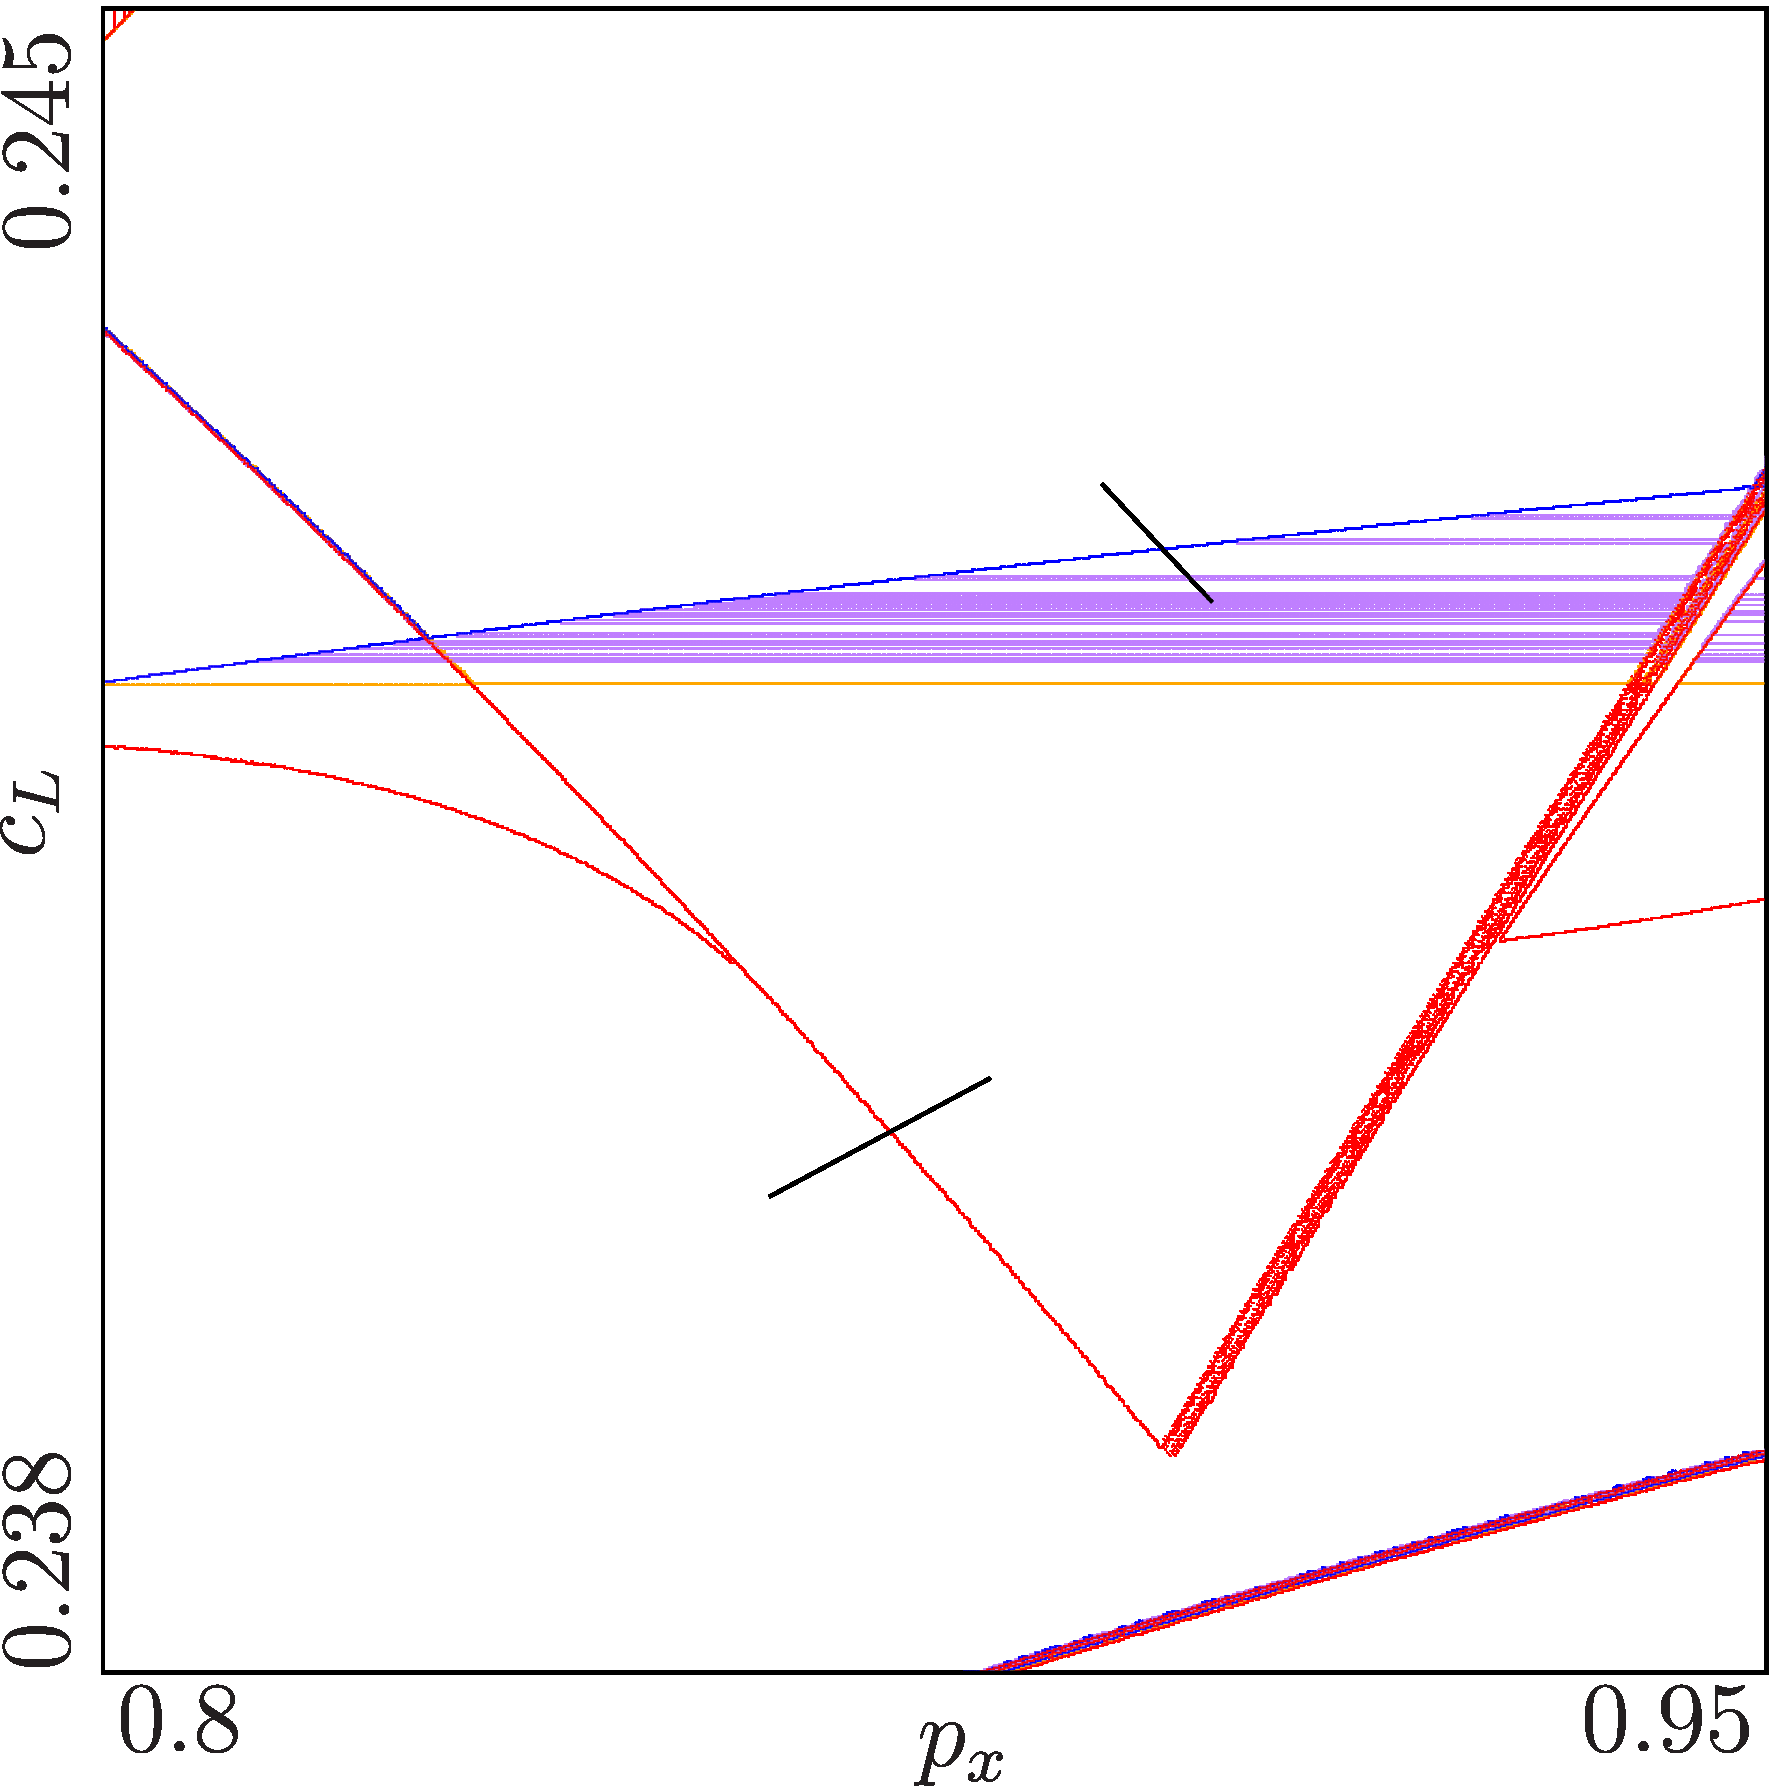
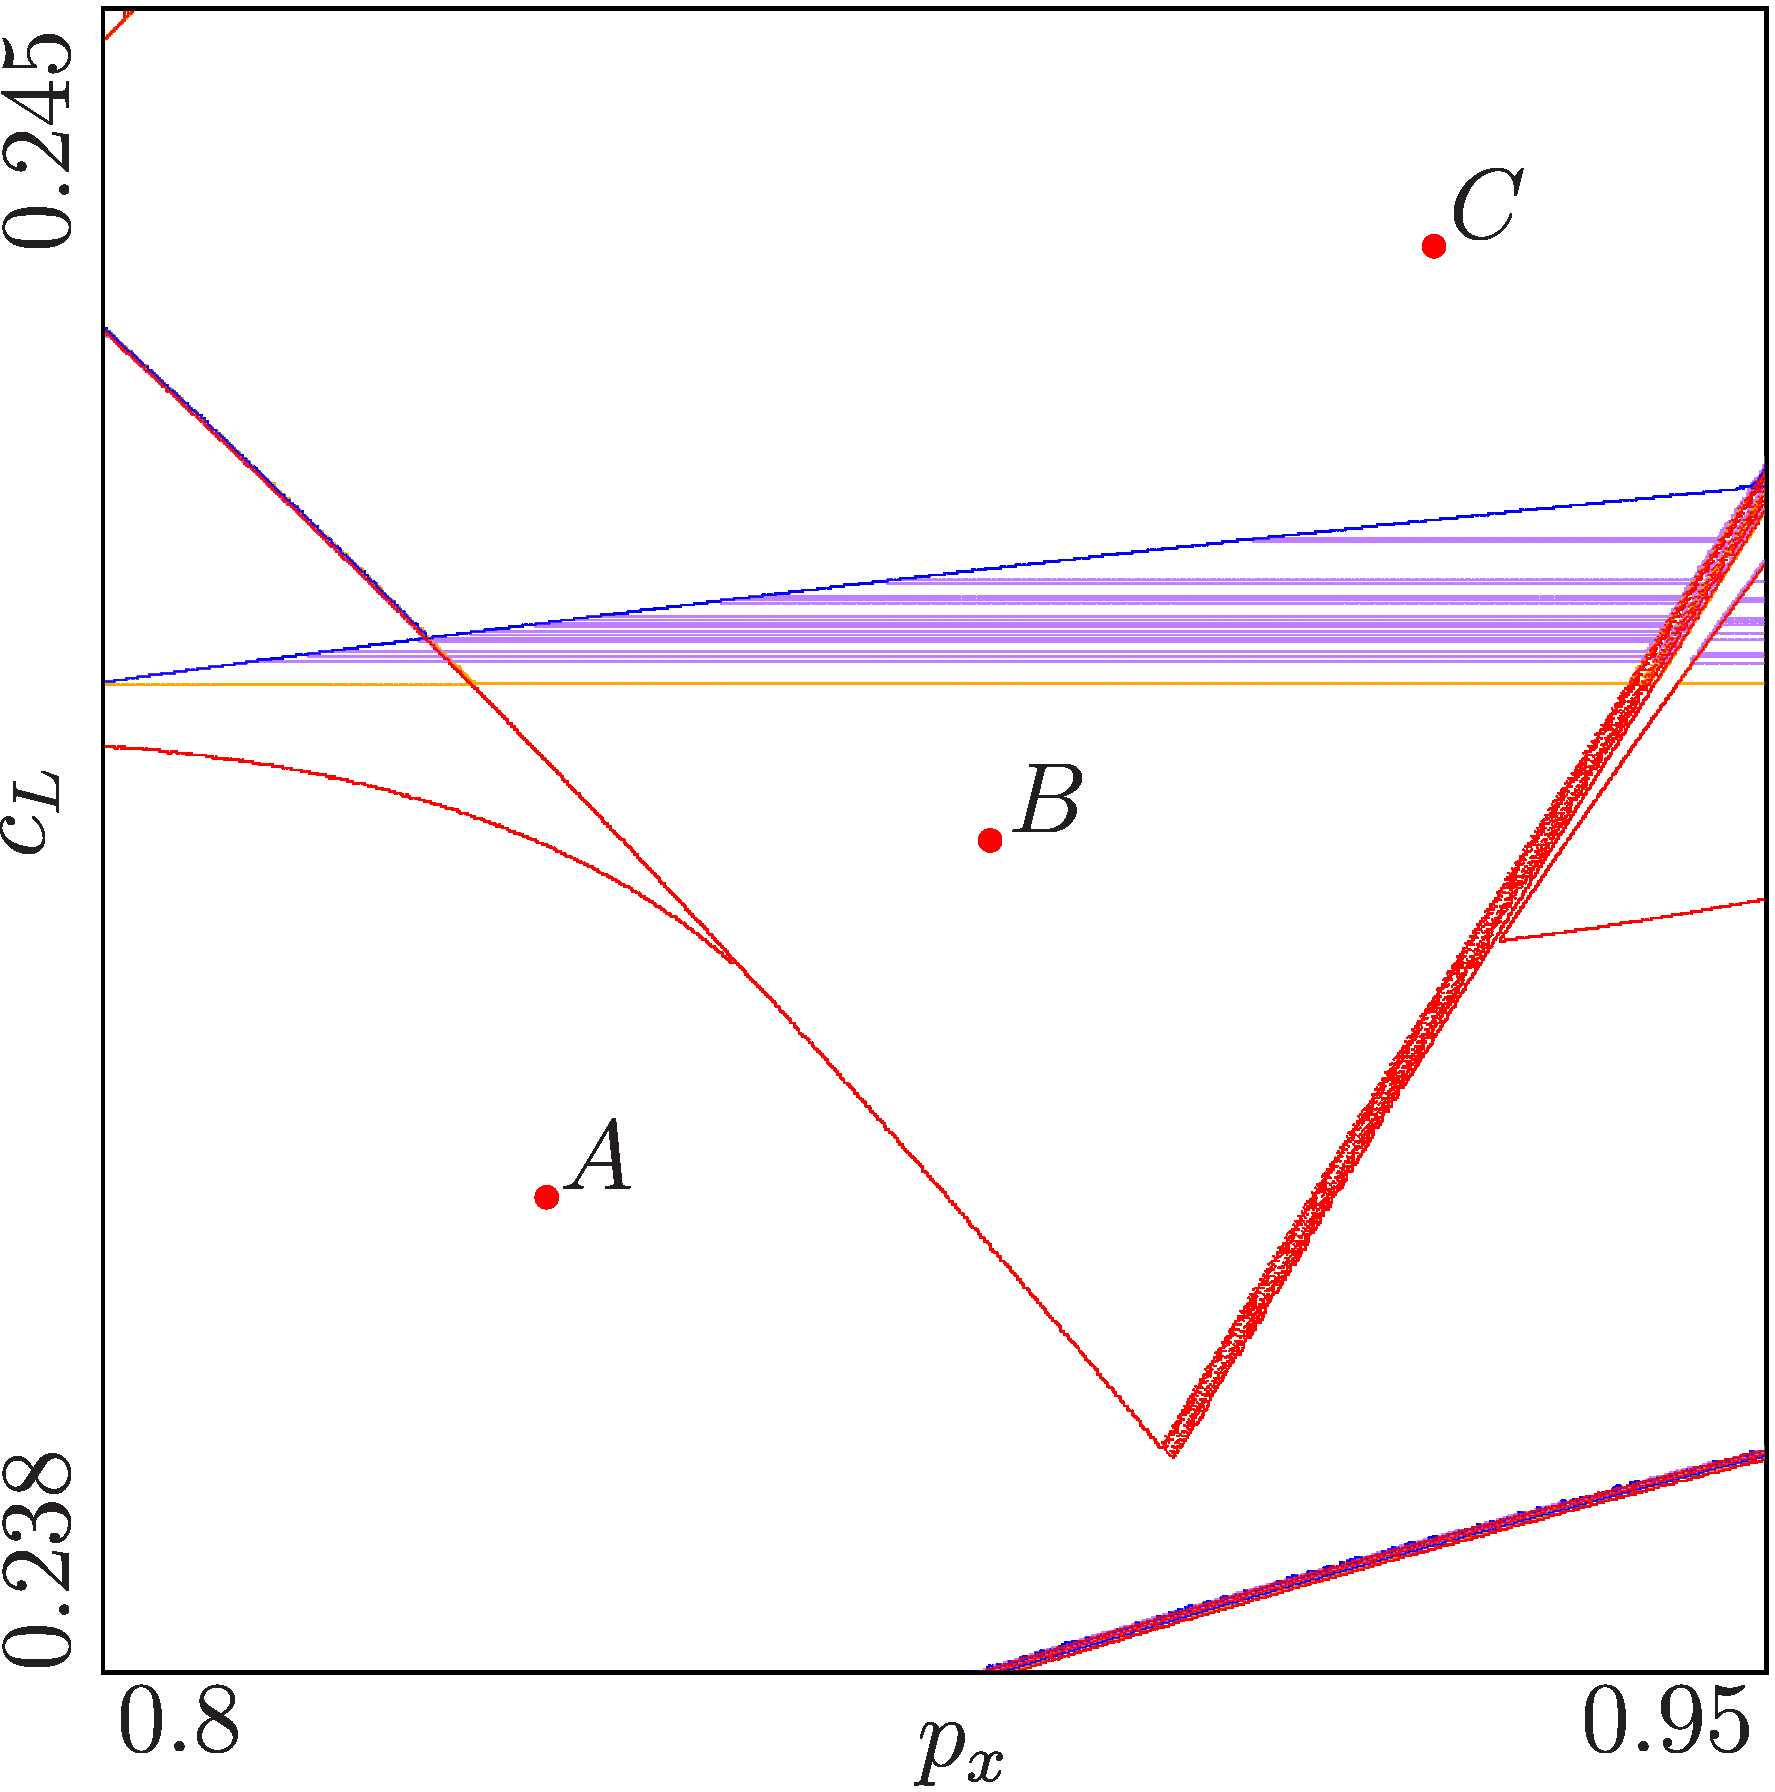
add nice cobwebs

diff --git a/Report/Sections/50_Models/23_compound.tex b/Report/Sections/50_Models/23_compound.tex
@@ -44,4 +44,37 @@ We will see that the bottom area is a type B area, and therefore the period in t
     \caption{2D Scans of First Marked Region}
 \end{figure}
 
-\todo{cobwebs A und B}
+\Cref{fig:quad.full.2aR1bR_cL.Cobwebs} shows cobweb diagrams at the three points marked in \Cref{fig:quadratic.full.2aR1bR_cL.2d.1,fig:quadratic.regions.2aR1bR_cL.2d.1}.
+At point $A$, we have two stable coexisting cycles of period 6 with symbolic sequences $\A\B\C^3D$ and $\A^3\B\C\D$.
+You can see them in \Cref{fig:quad.full.2aR1bR_cL.CobwebA}.
+This region is therefore a type B region since we have two coexisting cycles that are symmetric by rotationp.
+At point $C$, we only have one stable cycle of period 6 with symbolic sequence $\A^2\B\C^3\D$.
+\Cref{fig:quad.full.2aR1bR_cL.CobwebC} shows this cycle.
+The upper region, therefore, is a type A region.
+Both these regions overlap like in the original model.
+\Cref{fig:quad.full.2aR1bR_cL.CobwebB} shows the stable cycles at point $C$ in the overlapping area.
+\todo{similarity to overlap in og model}
+
+\begin{figure}
+    \centering
+    \begin{subfigure}{0.3\textwidth}
+        \centering
+        \includegraphics[width=\textwidth]{21_002_Quadratic_2aR1bR_cL/P6/Cobweb_P6_A/result.png}
+        \caption{At Point A}
+        \label{fig:quad.full.2aR1bR_cL.CobwebA}
+    \end{subfigure}
+    \begin{subfigure}{0.3\textwidth}
+        \centering
+        \includegraphics[width=\textwidth]{21_002_Quadratic_2aR1bR_cL/P6/Cobweb_P6_B/result.png}
+        \caption{At Point B}
+        \label{fig:quad.full.2aR1bR_cL.CobwebB}
+    \end{subfigure}
+    \begin{subfigure}{0.3\textwidth}
+        \centering
+        \includegraphics[width=\textwidth]{21_002_Quadratic_2aR1bR_cL/P6/Cobweb_P6_C/result.png}
+        \caption{At Point C}
+        \label{fig:quad.full.2aR1bR_cL.CobwebC}
+    \end{subfigure}
+    \caption{Cobwebs at Different Points}
+    \label{fig:quad.full.2aR1bR_cL.Cobwebs}
+\end{figure}
